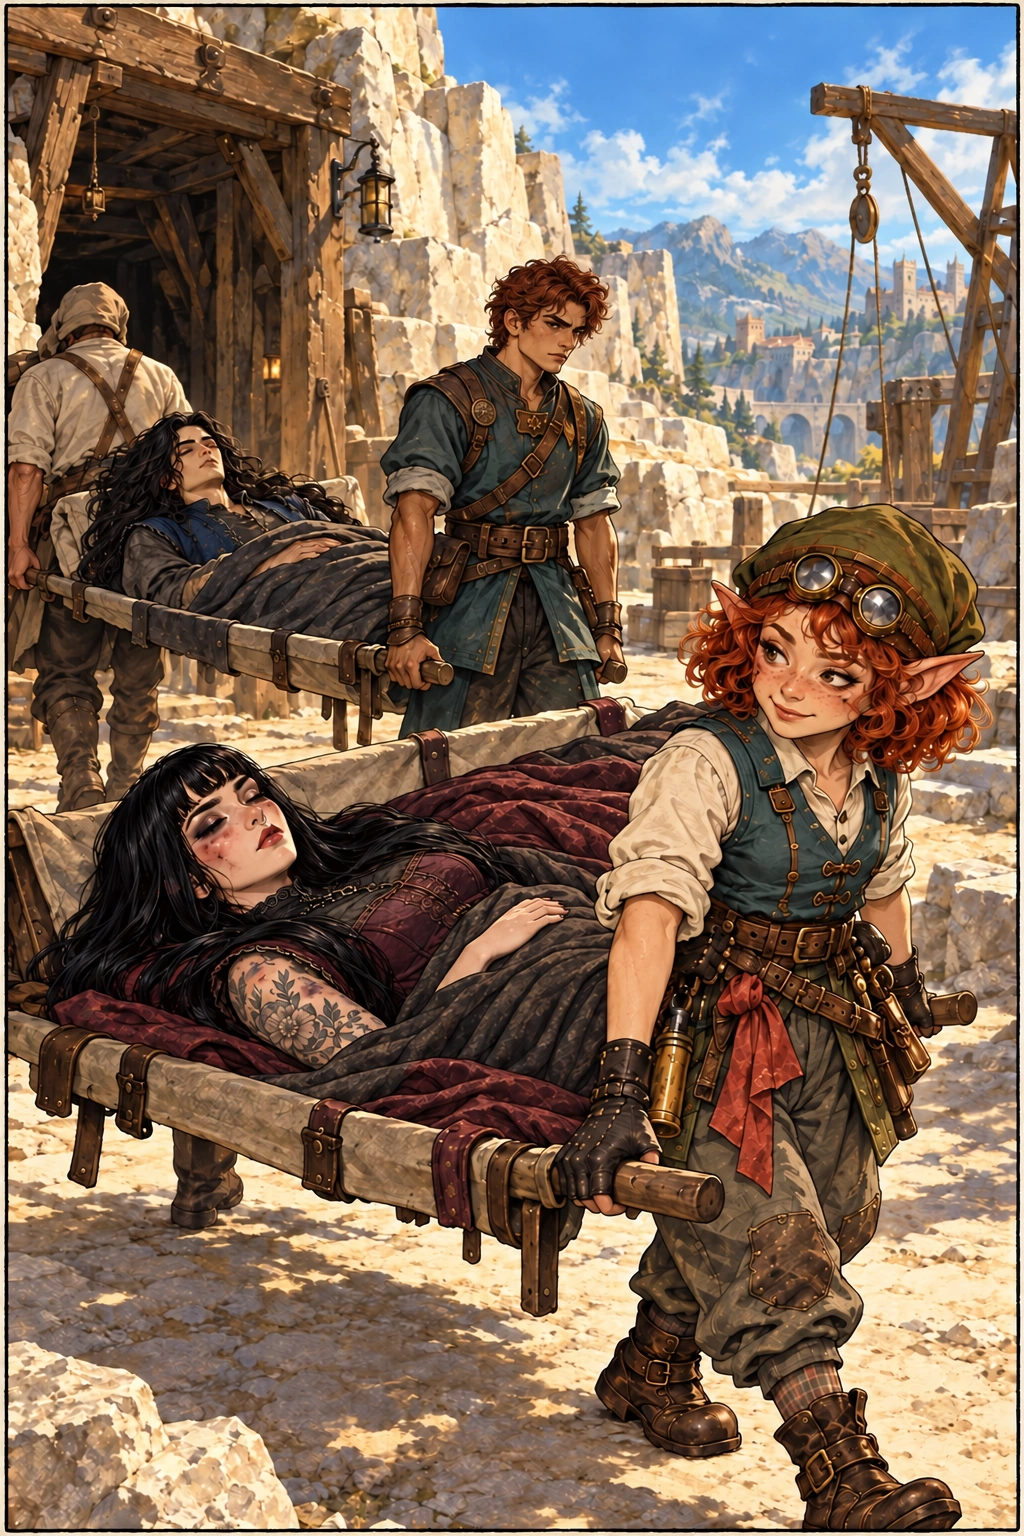
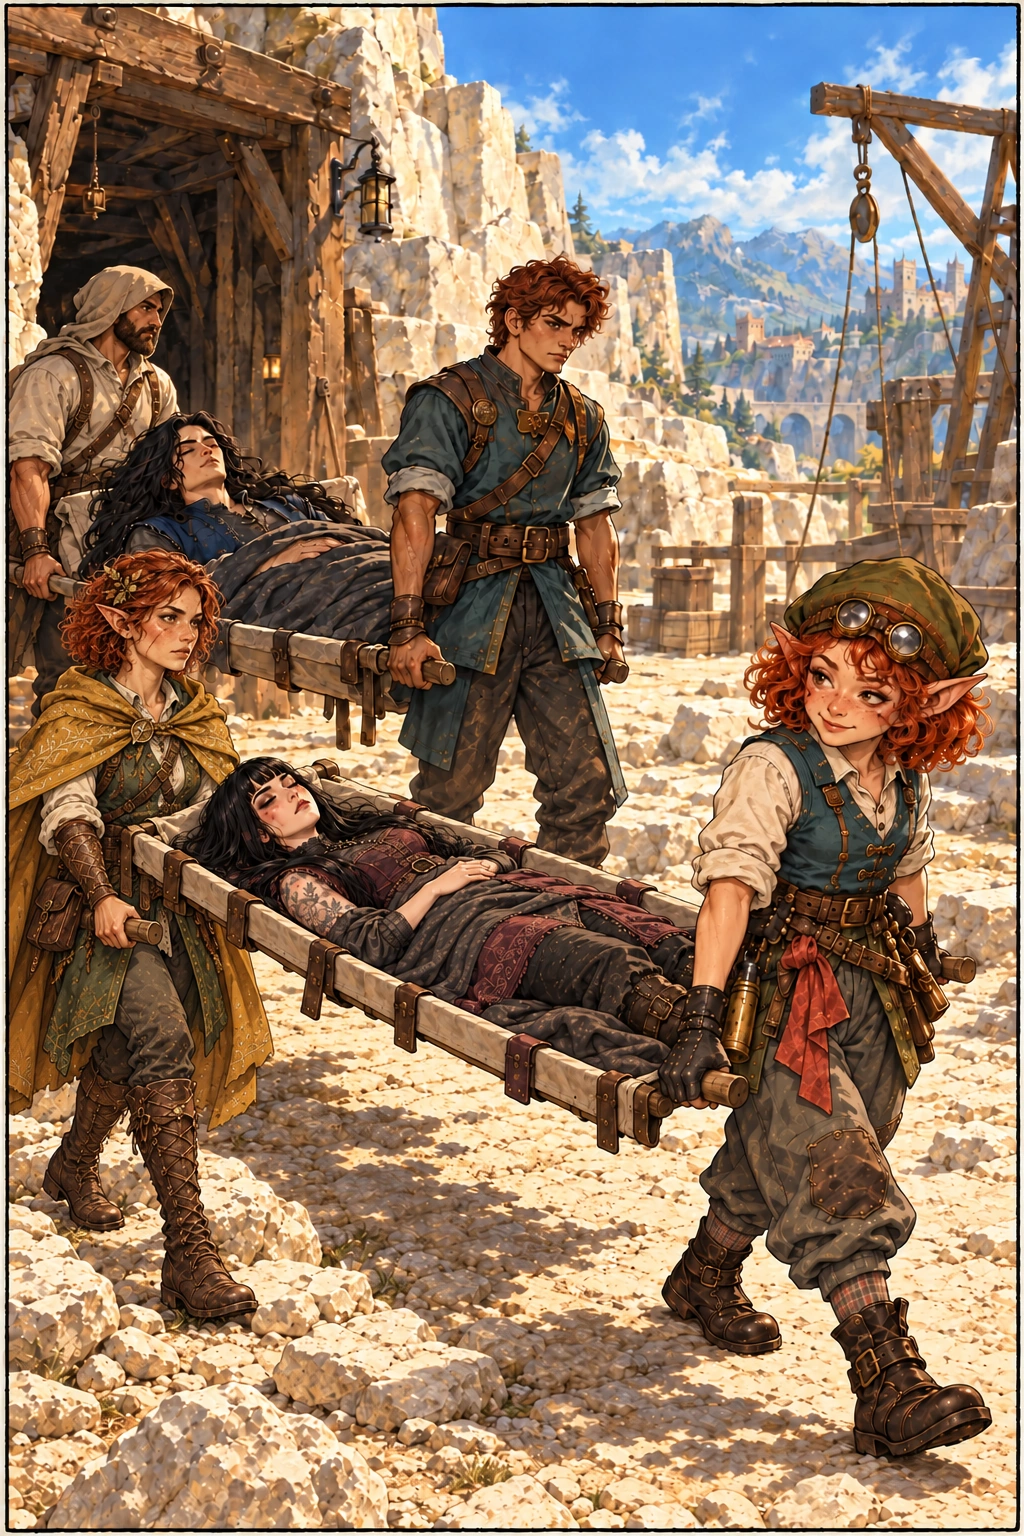
Fix page 1011 stretcher carriers and continuity

diff --git a/reader/medieval/arc7-1007-1020-plan.md b/reader/medieval/arc7-1007-1020-plan.md
@@ -8,7 +8,7 @@ Partida: dia 546, manhã, conduto da cava pública. A grade recém-baixada isola
 | 1008 | Ilyan larga a espada e treme; Caio o cobre, Sere exige aquecimento gradual e maca. | Estação baixa, manhã |
 | 1009 | O apito traz Talin; ela informa a urgência de Runa. Ilyan tenta erguer-se e falha. | Bifurcação, manhã |
 | 1010 | Caio vai à calha e assume peso da maca que Nima ajuda a sustentar. | Calha, manhã |
-| 1011 | As macas cruzam a saída; Nima reconhece Ilyan, mas permanece junto a Runa. | Saída pública, fim da manhã |
+| 1011 | As macas cruzam a saída: Nima e Talin sustentam Runa, Caio e um trabalhador da cava sustentam Ilyan. Nima o reconhece, mas permanece junto a Runa. | Saída pública, fim da manhã |
 | 1012 | Hessa prepara carroça e passagem livre; Eda conta cinco feridos. | Estacas e carroça, fim da manhã |
 | 1013 | Na hospedaria, curandeira examina Runa com vias respiratórias livres e exige vigília. | Porto, meio-dia |
 | 1014 | Ilyan recebe panos secos e líquido morno; Eda registra a ignição e seu custo. | Porto, tarde |
